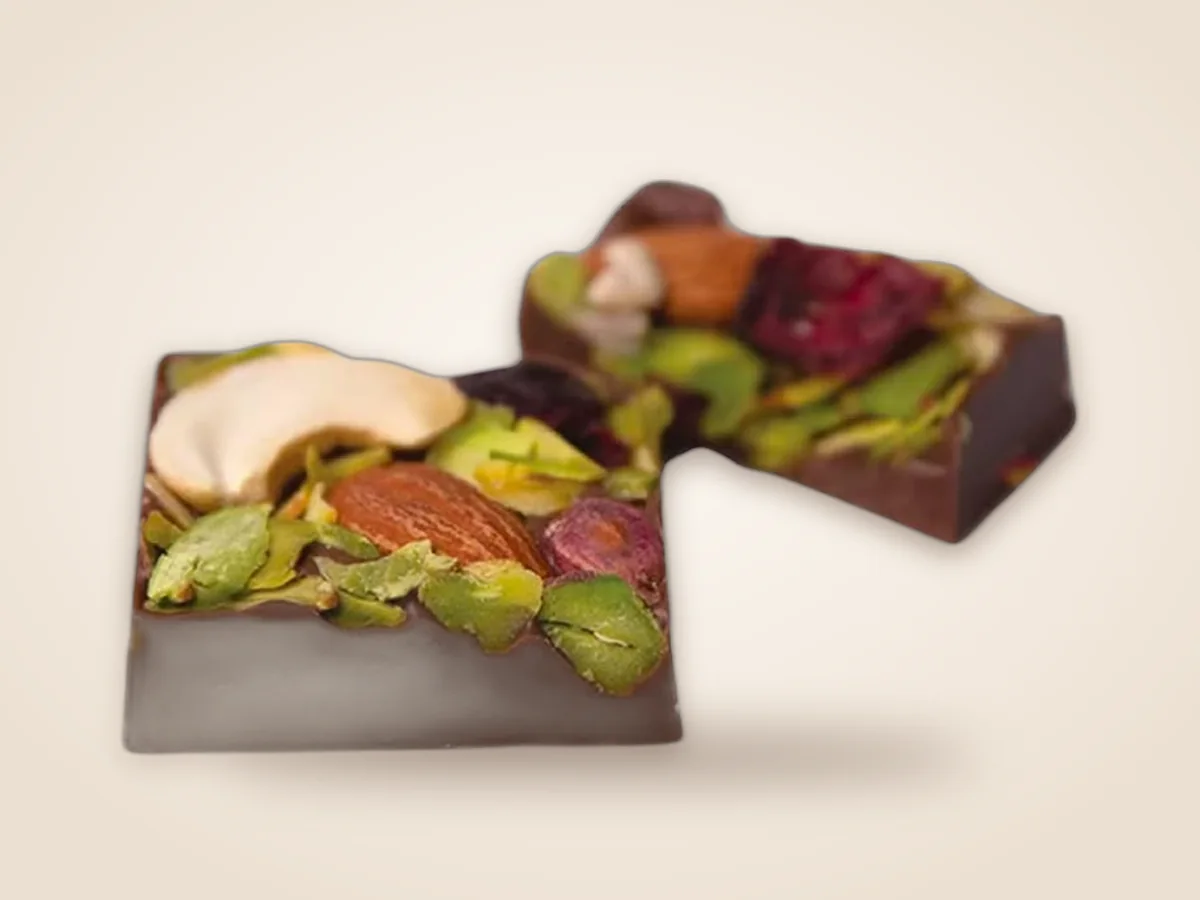
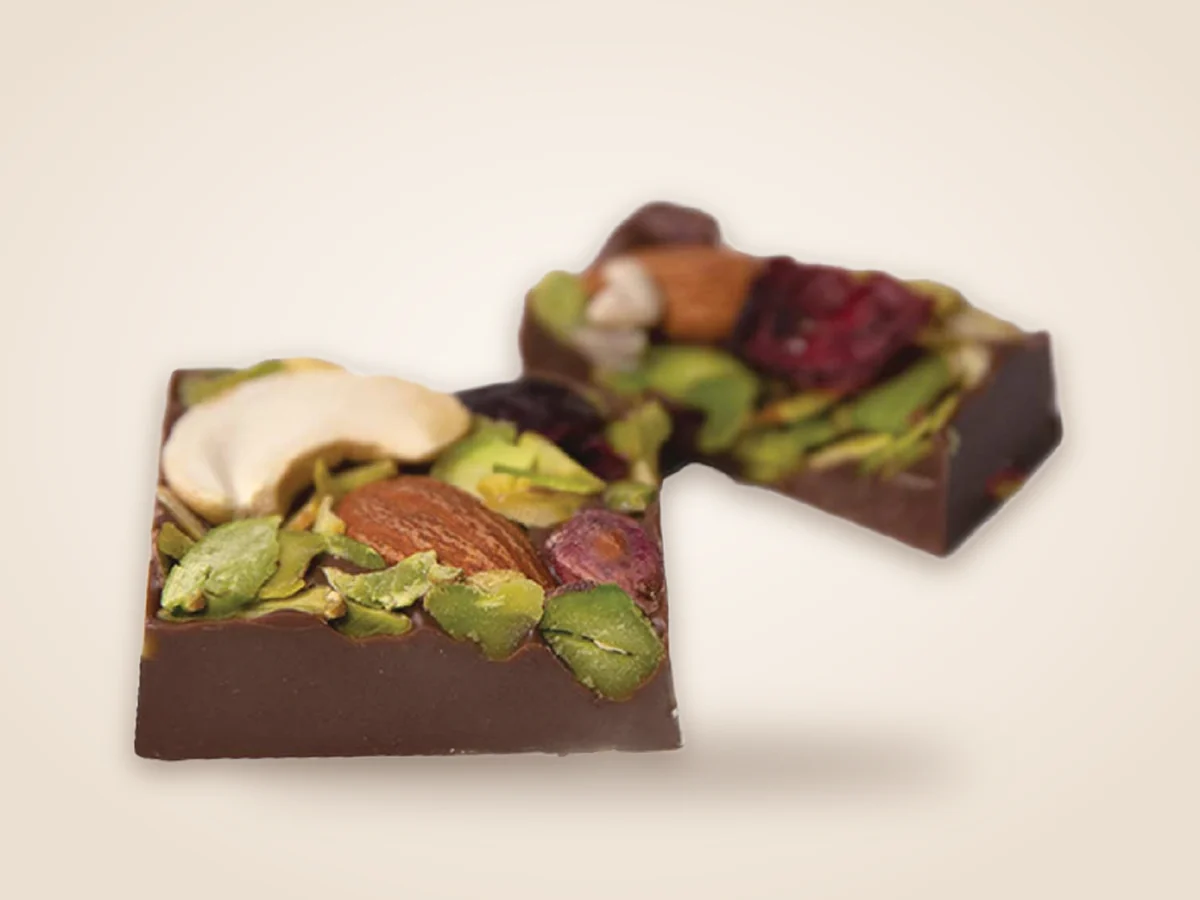
Sharper Ghrawi praline photos + 10 new pralines with photos

Changed region(s): [[0.0925, 0.1867, 0.925, 0.8711]]

diff --git a/js/products.js b/js/products.js
@@ -69,6 +69,16 @@ const PRODUCTS = [
     ["pistachio-cup", "فستق حلبي", "פיסטוק", "كوب شوكلاطة مع كريمة الفستق الحلبي والتوت.", "כוס שוקולד עם קרם פיסטוק ופירות יער."],
     ["milk-rose", "شوكلاطة حليب مع وردة", "שוקולד חלב עם ורד", "شوكلاطة حليب بشكل وردة.", "שוקולד חלב בצורת ורד."],
     ["dubai-sesame", "سمسمية مع شوكلاطة دبي", "סומסומייה עם שוקולד דובאי", "سمسمية مع شوكلاطة دبي والفستق.", "סומסומייה עם שוקולד דובאי ופיסטוק."],
+    ["candy-pop", "كاندي بوب", "קנדי פופ", "شوكلاطة حليب محشوة بالمارشميلو وقطع مقرمشة.", "שוקולד חלב במילוי מרשמלו ופתיתים פריכים."],
+    ["tart-fraise", "شوكولا تارت فريز", "טארט תות", "تارت شوكلاطة بحشوة الفراولة.", "טארט שוקולד במילוי תות."],
+    ["rocher", "تفطيس روشيه", "רושה", "بندق كامل مغطى بالشوكلاطة الداكنة.", "אגוזי לוז שלמים בציפוי שוקולד מריר."],
+    ["bird-nest", "عش البلبل", "קן בולבול", "عش البلبل بالفستق الحلبي مع حشوة الشوكلاطة.", "קן בולבול עם פיסטוק ומילוי שוקולד."],
+    ["ounces", "أونصات", "אונסאת", "قطع شوكلاطة داكنة مع المكسرات.", "חתיכות שוקולד מריר עם אגוזים."],
+    ["cupcake", "شوكلاطة كب كيك", "שוקולד קאפקייק", "كيك الشوكلاطة مغطى بالشوكلاطة بالحليب.", "עוגת שוקולד בציפוי שוקולד חלב."],
+    ["cream-biscuit", "شوكلا كريم بسكوت", "שוקולד קרם ביסקוויט", "بسكوت وكريمة الشوكلاطة مع المكسرات.", "ביסקוויט וקרם שוקולד עם אגוזים."],
+    ["choc-biscuit", "شوكولا بسكوت", "שוקולד ביסקוויט", "شوكلاطة حليب بحشوة الوفر المقرمش.", "שוקולד חלב במילוי ופל פריך."],
+    ["kunafa-lotus", "شوكلا كنافة لوتس", "כנאפה לוטוס", "كنافة مع كريمة ولوتس في كوب شوكلاطة داكنة.", "כנאפה עם קרם ולוטוס בכוס שוקולד מריר."],
+    ["einstein", "أينشتاين", "איינשטיין", "شوكلاطة بالفستق مغطاة بالكورن فليكس المقرمش.", "שוקולד פיסטוק בציפוי קורנפלקס פריך."],
   ].map(([id, ar, he, dar, dhe]) =>
     P("praline-" + id, "pralines", "praline-" + id, ar, he, dar, dhe)),
 
@@ -104,13 +114,10 @@ const PRODUCTS = [
 /* ---------- More praline flavours (menu boards, no photos yet) ----------
    Shown as a "flavours menu" (names only). Sold by weight at PRICE_PER_KG.
    When a photo arrives, move the flavour into PRODUCTS (category "pralines").
-   Left out until confirmed: ابنشاين، بيجلا مملح */
+   Left out until confirmed: بيجلا مملح */
 const FLAVOURS = [
-  ["بقلاوة شوكلاطة", "בקלאווה שוקולד"], ["شوكلا كنافة لوتس", "כנאפה לוטוס"], ["شوكلاطة كب كيك", "שוקולד קאפקייק"],
-  ["شوكلاطة لواكر", "שוקולד ופל"], ["كيندر بوينو مع بسكوت", "קינדר בואנו עם ביסקוויט"], ["شوكلاطة حليب", "שוקולד חלב"],
-  ["شوكلا كريم بسكوت", "שוקולד קרם ביסקוויט"], ["كاندي بوب", "קנדי פופ"], ["شوكولا تارت فريز", "טארט תות"],
-  ["تفطيس روشيه", "רושה"], ["شوكولا بسكوت", "שוקולד ביסקוויט"], ["عش البلبل مع قشطة وعسل", "קן בולבול עם קשטה ודבש"],
+  ["بقلاوة شوكلاطة", "בקלאווה שוקולד"], ["شوكلاطة لواكر", "שוקולד ופל"], ["كيندر بوينو مع بسكوت", "קינדר בואנו עם ביסקוויט"], ["شوكلاطة حليب", "שוקולד חלב"],
   ["شوكلاطة بقلاوة مع عسل", "שוקולד בקלאווה עם דבש"], ["دب اللوز", "דובון שקדים"], ["براوني اللوز", "בראוניז שקדים"],
-  ["وافيل بلجي", "וופל בלגי"], ["أونصات", "אונסאת"], ["جليدا", "ג'לידה"],
+  ["وافيل بلجي", "וופל בלגי"], ["جليدا", "ג'לידה"],
   ["فراشة اللوز", "פרפר שקדים"], ["وافر", "ופלים"], ["وافل", "וופל"],
 ].map(([ar, he]) => ({ ar, he }));
